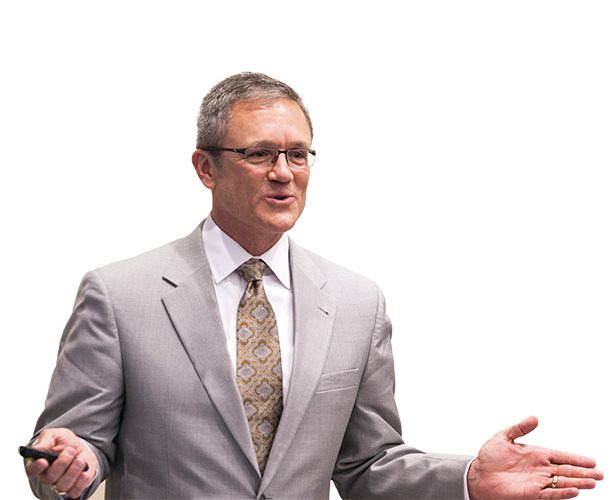
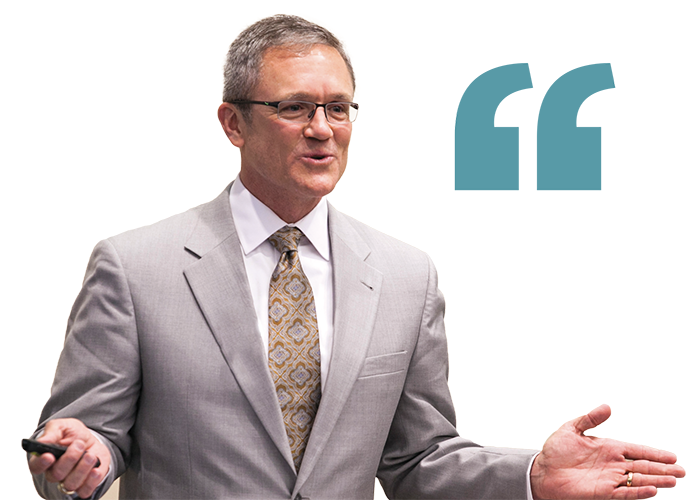
nire style updates

Changed region(s): [[0.0309, 0.03, 0.9902, 1.0], [0.6498, 0.12, 0.8974, 0.39]]

diff --git a/dev/2017/spring/breaking-down-debt/breaking-down-debt.css b/dev/2017/spring/breaking-down-debt/breaking-down-debt.css
@@ -1,1 +1,1 @@
-article.story{background-color:#fffaef}article.story hr{border-top:3px solid #000;margin-bottom:30px}article.story h1{font-family:MontserratBold,sans-serif;font-size:58px;font-weight:400;margin-bottom:30px}@media (max-width:767px){article.story h1{font-size:50px}article.story .chart-legend.text-center{text-align:left}}article.story .social{float:none;margin-top:20px}article.story .byline{margin-bottom:20px;margin-top:20px}article.story .content-container{margin-top:40px}article.story h2{font-family:"Whitney Cond A","Whitney Cond B";font-size:36px;font-weight:700;margin-top:50px;text-transform:uppercase}@media (min-width:992px){article.story h2{font-size:44px}}article.story h3{font-family:"Gotham SSm 8r","Gotham SSm A","Gotham SSm B",Arial,Gadget,sans-serif;font-size:22px;font-weight:700;margin-bottom:3px}article.story .chart-description{font-family:Georgia,"Times New Roman",Times,serif;font-size:18px}article.story .chart-alt-footer,article.story .chart-footer,article.story .chart-legend{font-family:"Gotham SSm 8r","Gotham SSm A","Gotham SSm B",Arial,Gadget,sans-serif}@media (min-width:992px){article.story .chart-description{font-size:20px}}article.story .chart-legend{font-size:14px;margin:10px auto}@media (min-width:992px){article.story .chart-legend{font-size:16px}}article.story .florida-legend,article.story .for-profit-legend,article.story .private-non-profit-legend,article.story .public-legend,article.story .ucf-legend{display:inline-block;min-height:15px;width:50px}article.story .ucf-legend{background-color:#f9b446}article.story .public-legend{background-color:#c5c0b8}article.story .for-profit-legend{background-color:#d27c50}article.story .private-non-profit-legend{background-color:#5c9ba7}article.story .florida-legend{background-color:#6cb7d9}article.story .legend-container{display:inline-block;margin:0 auto;width:220px;white-space:nowrap}@media (min-width:480px){article.story .legend-container.width-auto{margin:0 5px;width:auto}}article.story .chart-label-1{color:#52bd89}article.story .chart-label-2{color:#7b9179}article.story .chart-label-3{color:#cd6003}article.story .chart-label-4{color:#a74a43}article.story .chart-label-5{color:#ff0001}article.story .chart-footer{font-size:14px}@media (min-width:992px){article.story .chart-footer{font-size:16px}}article.story .chart-alt-footer{color:#8a8c8e;font-size:12px}@media (min-width:992px){article.story .chart-alt-footer{font-size:13px}}article.story .large-percentage{font-family:"Whitney Cond A","Whitney Cond B";font-size:120px;font-weight:400;line-height:1;text-align:center}article.story .learn-more,article.story .survey-copy,article.story .topics-header,article.story .topics-list{font-family:"Gotham SSm 8r","Gotham SSm A","Gotham SSm B",Arial,Gadget,sans-serif}article.story .callout-outer{margin-top:50px}article.story .callout{background-color:#e5e5e5}article.story .callout .dale-container .dale{display:none;position:absolute}@media (min-width:992px){article.story .callout .dale-container .dale{display:block;top:-60px}article.story .callout .dale-container blockquote p{font-size:24px;line-height:36px}}@media (min-width:1200px){article.story .brighter-futures-chart{width:80%}article.story .callout .dale-container .dale{top:-57px}}@media (min-width:992px) and (min-width:1200px){article.story .callout .dale-container blockquote p{font-size:33px;line-height:43px}}article.story .callout .student-container .student{position:absolute;right:0;display:none}@media (min-width:992px){article.story .callout .student-container .student{display:block;top:-75px}}article.story .callout .student-container p{font-size:14px}@media (min-width:1200px){article.story .callout .student-container .student{top:-74px}article.story .callout .student-container p{font-size:16px}}article.story .callout .student-container blockquote p{font-size:27px;line-height:39px}@media (min-width:1200px){article.story .callout .student-container blockquote p{font-size:33px;line-height:43px}}article.story .callout .student-content{background-color:#e5e5e5;margin-top:10px}article.story .background-color-transparent{background-color:transparent}article.story .survey-copy{font-size:18px;margin-top:23px}article.story .topics-header,article.story .topics-list{font-size:16px;list-style:none}article.story .black-header-container{margin:40px 0}article.story .black-header-container .black-header{background-color:#000;bottom:0;-webkit-box-decoration-break:clone;box-decoration-break:clone;box-shadow:0 0 0 .35em #000,-.35em 0 0 0 #000;color:#fff;display:inline;line-height:1.5;margin-left:20px;position:relative}article.story .topics-header{font-weight:700;margin-top:30px;text-transform:uppercase}article.story .topics-content{text-align:center}article.story .topics-content a{display:inline-block}article.story .topics-content a:active,article.story .topics-content a:hover{background-color:#e5e5e5}article.story .topics-list{font-size:16px;font-weight:400;margin-bottom:30px;margin-top:0}article.story .download-pdf{border:3px solid #000;border-radius:0;font-size:18px;font-weight:700;margin-bottom:20px;margin-top:30px;padding:10px 15px}@media (min-width:992px){article.story .download-pdf{font-size:22px}}article.story .learn-more{font-size:18px;margin-bottom:20px}@media (min-width:992px){article.story .learn-more{font-size:24px}}article.story .learn-more a{font-weight:700}
+article.story{background-color:#fffaef}article.story hr{border-top:3px solid #000;margin-bottom:30px}article.story h1{font-family:MontserratBold,sans-serif;font-size:58px;font-weight:400;margin-bottom:30px}@media (min-width:992px){article.story h1{font-size:50px}article.story .visible-xs-sm{display:none}}article.story .social{float:none;margin-top:20px}article.story .byline{margin-bottom:20px;margin-top:20px}article.story .content-container{margin-top:40px}article.story h2{font-family:"Whitney Cond A","Whitney Cond B";font-size:36px;font-weight:700;margin-top:50px;text-transform:uppercase}@media (min-width:992px){article.story h2{font-size:44px}}article.story h3{font-family:"Gotham SSm 8r","Gotham SSm A","Gotham SSm B",Arial,Gadget,sans-serif;font-size:22px;font-weight:700;margin-bottom:3px}article.story .chart-description{font-family:Georgia,"Times New Roman",Times,serif;font-size:18px}article.story .chart-alt-footer,article.story .chart-footer,article.story .chart-legend{font-family:"Gotham SSm 8r","Gotham SSm A","Gotham SSm B",Arial,Gadget,sans-serif}@media (min-width:992px){article.story .chart-description{font-size:20px}}article.story .chart-legend{font-size:14px;margin:10px auto}@media (max-width:767px){article.story .chart-legend.text-center{text-align:left}}@media (min-width:992px){article.story .chart-legend{font-size:16px}}article.story .florida-legend,article.story .for-profit-legend,article.story .private-non-profit-legend,article.story .public-legend,article.story .ucf-legend{display:inline-block;min-height:15px;width:50px}article.story .ucf-legend{background-color:#f9b446}article.story .public-legend{background-color:#c5c0b8}article.story .for-profit-legend{background-color:#d27c50}article.story .private-non-profit-legend{background-color:#5c9ba7}article.story .florida-legend{background-color:#6cb7d9}article.story .legend-container{display:inline-block;margin:0 auto;width:220px;white-space:nowrap}@media (min-width:480px){article.story .legend-container.width-auto{margin:0 5px;width:auto}}article.story .chart-label-1{color:#52bd89}article.story .chart-label-2{color:#7b9179}article.story .chart-label-3{color:#cd6003}article.story .chart-label-4{color:#a74a43}article.story .chart-label-5{color:#ff0001}article.story .chart-footer{font-size:14px}@media (min-width:992px){article.story .chart-footer{font-size:16px}}article.story .chart-alt-footer{color:#8a8c8e;font-size:12px}@media (min-width:992px){article.story .chart-alt-footer{font-size:13px}}article.story .large-percentage{font-family:"Whitney Cond A","Whitney Cond B";font-size:120px;font-weight:400;line-height:1;text-align:center}article.story .learn-more,article.story .survey-copy,article.story .topics-header,article.story .topics-list{font-family:"Gotham SSm 8r","Gotham SSm A","Gotham SSm B",Arial,Gadget,sans-serif}article.story .callout-outer{margin-top:50px}article.story .callout{background-color:#e5e5e5}article.story .callout .dale-container .dale{display:none;position:absolute}@media (min-width:992px){article.story .callout .dale-container .dale{display:block;top:-42px}}article.story .callout .dale-container blockquote{margin-bottom:0}article.story .callout .dale-container blockquote p{font-size:24px;line-height:36px}@media (min-width:1200px){article.story .brighter-futures-chart{width:80%}article.story .callout .dale-container .dale{top:-31px}article.story .callout .dale-container blockquote p{font-size:33px;line-height:43px}}article.story .callout .student-container img{margin-bottom:5px;margin-top:0}article.story .callout .student-container .student{position:absolute;right:0;display:none}@media (min-width:992px){article.story .callout .student-container .student{display:block;top:-75px}}article.story .callout .student-container p{font-size:14px}@media (min-width:1200px){article.story .callout .student-container .student{top:-73px}article.story .callout .student-container p{font-size:16px}}article.story .callout .student-container .cite{margin-right:10px}article.story .callout .student-container blockquote{margin-bottom:0;padding-bottom:0}article.story .callout .student-container blockquote p{font-size:21px;line-height:34px}@media (min-width:1200px){article.story .callout .student-container blockquote p{font-size:30px;line-height:40px}}article.story .callout .student-content{background-color:#e5e5e5;margin-top:10px}article.story .background-color-transparent{background-color:transparent}article.story .survey-copy{font-size:18px;margin-top:23px}article.story .topics-header,article.story .topics-list{font-size:16px;list-style:none}article.story .black-header-container{margin:40px 0}article.story .black-header-container .black-header{background-color:#000;bottom:0;-webkit-box-decoration-break:clone;box-decoration-break:clone;box-shadow:0 0 0 .35em #000,-.35em 0 0 0 #000;color:#fff;display:inline;line-height:1.5;margin-left:20px;position:relative}article.story .topics-header{font-weight:700;margin-top:30px;text-transform:uppercase}article.story .topics-content{text-align:center}article.story .topics-content a{display:inline-block}article.story .topics-content a:active,article.story .topics-content a:hover{background-color:#e5e5e5}article.story .topics-list{font-size:16px;font-weight:400;margin-bottom:30px;margin-top:0}article.story .download-pdf{border:3px solid #000;border-radius:0;font-size:18px;font-weight:700;margin-bottom:20px;margin-top:30px;padding:10px 15px}@media (min-width:992px){article.story .download-pdf{font-size:22px}}article.story .learn-more{font-size:18px;margin-bottom:20px}@media (min-width:992px){article.story .learn-more{font-size:24px}}article.story .learn-more a{font-weight:700}

diff --git a/dev/2017/spring/breaking-down-debt/breaking-down-debt.html b/dev/2017/spring/breaking-down-debt/breaking-down-debt.html
@@ -40,11 +40,12 @@
                 <div class="row content-wrap student-container">
                     <div class="col-md-10 col-sm-10 col-md-offset-1 col-sm-offset-1 callout-inner text-left">
                         <div class="row">
-                            <div class="col-md-6 col-lg-7">
+                            <div class="col-md-7 col-lg-8">
+                                <img src="[image filename='quote']" alt="" class="visible-md visible-lg">
                                 <blockquote cite="Bryce Nelson">
-                                    "My experience, the faculty and people who have helped me, it’s been invaluable."
+                                    <span class="visible-xs-sm">"</span>My experience, the faculty and people who have helped me, it’s been invaluable."
                                 </blockquote>
-                                <p>&mdash; <strong>Bryce Nelson</strong>, a first-generation UCF marketing student who has utilized Student Financial Assistance counseling, financial aid and work-study opportunities to earn an education with minimal debt.</p>
+                                <p class="cite">&mdash; <strong>Bryce Nelson</strong>, a first-generation UCF marketing student who has utilized Student Financial Assistance counseling, financial aid and work-study opportunities to earn an education with minimal debt.</p>
                             </div>
                             <img src="[image filename='student']" alt="" class="student">
                         </div>
@@ -88,7 +89,7 @@
                                 <img src="[image filename='dale']" alt="" width="100%" class="dale">
                             </div>
                             <div class="col-md-7 col-lg-7">
-                                <blockquote>"Responsible borrowing allows students, who might not otherwise be able to pay for their education, to invest in their future. So, we teach our students to borrow smart."</blockquote>
+                                <blockquote><span class="visible-xs-sm">"</span>Responsible borrowing allows students, who might not otherwise be able to pay for their education, to invest in their future. So, we teach our students to borrow smart."</blockquote>
                                 <p>&mdash; <strong>A. Dale Whittaker</strong>, Provost and Executive Vice President</p>
                             </div>
                         </div>

diff --git a/dev/2017/spring/breaking-down-debt/breaking-down-debt.scss b/dev/2017/spring/breaking-down-debt/breaking-down-debt.scss
@@ -21,8 +21,15 @@ article.story {
     font-weight: normal;
     margin-bottom: 30px;
 
-    @media (max-width: 767px) {
+    @media (min-width: $screen-md-min) {
       font-size: 50px;
+    }
+  }
+
+  .visible-xs-sm {
+
+    @media(min-width: $screen-md-min) {
+      display: none;
     }
   }
 
@@ -196,17 +203,18 @@ article.story {
 
         @media (min-width: $screen-md-min) {
           display: block;
-          top: -60px;
+          top: -42px;
         }
 
         @media (min-width: $screen-lg-min) {
-          top: -57px;
+          top: -31px;
         }
       }
 
-      @media (min-width: $screen-md-min) {
+      blockquote {
+        margin-bottom: 0;
 
-        blockquote p {
+        p {
           font-size: 24px;
           line-height: 36px;
 
@@ -220,6 +228,11 @@ article.story {
 
     .student-container {
 
+      img {
+        margin-bottom: 5px;
+        margin-top: 0;
+      }
+
       .student {
         position: absolute;
         right: 0;
@@ -231,7 +244,7 @@ article.story {
         }
 
         @media (min-width: $screen-lg-min) {
-          top: -74px;
+          top: -73px;
         }
       }
 
@@ -243,13 +256,22 @@ article.story {
         }
       }
 
-      blockquote p {
-        font-size: 27px;
-        line-height: 39px;
+      .cite {
+        margin-right: 10px;
+      }
 
-        @media (min-width: $screen-lg-min) {
-          font-size: 33px;
-          line-height: 43px;
+      blockquote {
+        margin-bottom: 0;
+        padding-bottom: 0;
+
+        p {
+          font-size: 21px;
+          line-height: 34px;
+
+          @media (min-width: $screen-lg-min) {
+            font-size: 30px;
+            line-height: 40px;
+          }
         }
       }
     }
